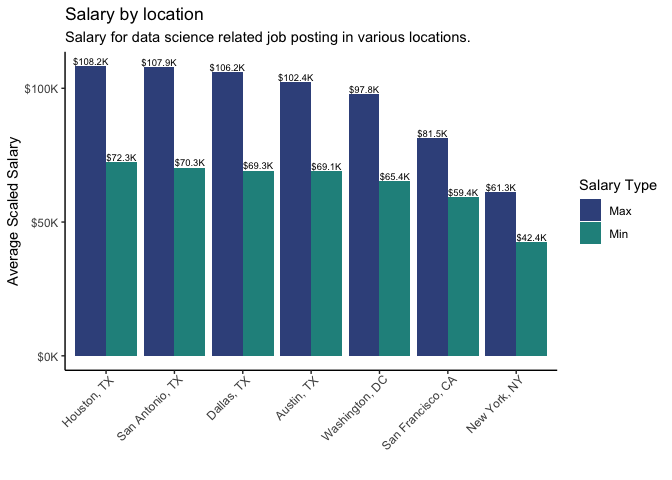
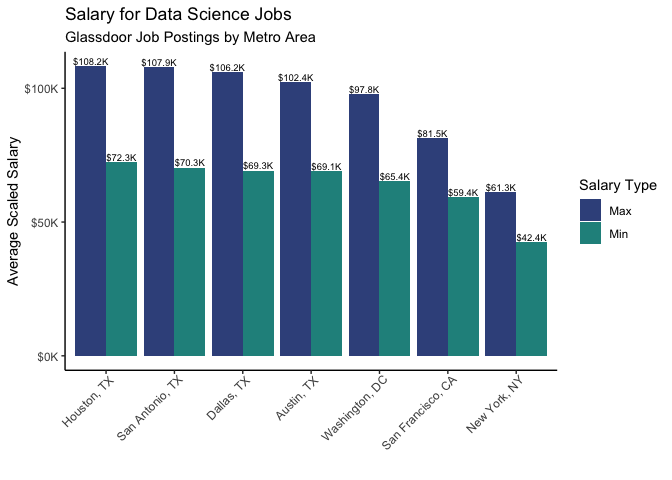
fixed up graph labels and titles

Changed region(s): [[0.0938, 0.0, 0.6875, 0.0938]]

diff --git a/EDA/Job_Types.md b/EDA/Job_Types.md
@@ -6,6 +6,7 @@ library(tidyverse)
 library(ggplot2)
 library(viridis)
 library(ggalluvial)
+library(ggfittext)
 ```
 
 Job types :
@@ -156,12 +157,12 @@ ggplot(data = dff,
            y = Freq)) +
   scale_x_discrete(limits = c("Job Category", "Industry"), expand = c(.2, .05)) +
   ylab("Frequency") +
-  geom_alluvium(aes(fill = Var1)) +
+  geom_alluvium(aes(fill = Var1), alpha = 0.9) +
   geom_stratum() +
-  geom_text(stat = "stratum", aes(label = after_stat(stratum))) +
+  scale_fill_viridis(discrete = TRUE, name = "Data Science Role") +
+  geom_text(stat = "stratum", aes(label = after_stat(stratum)), size = 2) +
   theme_minimal() +
-  ggtitle("Job category by industry")+
-  scale_fill_discrete(name = "Job category")
+  ggtitle("Data Science Job Roles in the Top 5 Industries")
 ```
 
 ![](Job_Types_files/figure-gfm/unnamed-chunk-6-1.png)<!-- -->
@@ -245,8 +246,8 @@ salary_data_loc <- df %>% pivot_longer(
 
 p <- ggplot(salary_data_loc, aes(x = reorder(metro_location, -salary), y = salary, fill = type)) 
 p + geom_bar(stat = "identity", position = 'dodge')+
-    labs(title = "Salary by location",
-         subtitle = "Salary for data science related job posting in various locations.",
+    labs(title = "Salary for Data Science Jobs",
+         subtitle = "Glassdoor Job Postings by Metro Area",
        x = "",
        y = "Average Scaled Salary") +
     scale_fill_viridis(discrete = TRUE, begin = 0.25, end = 0.5, name = "Salary Type",
